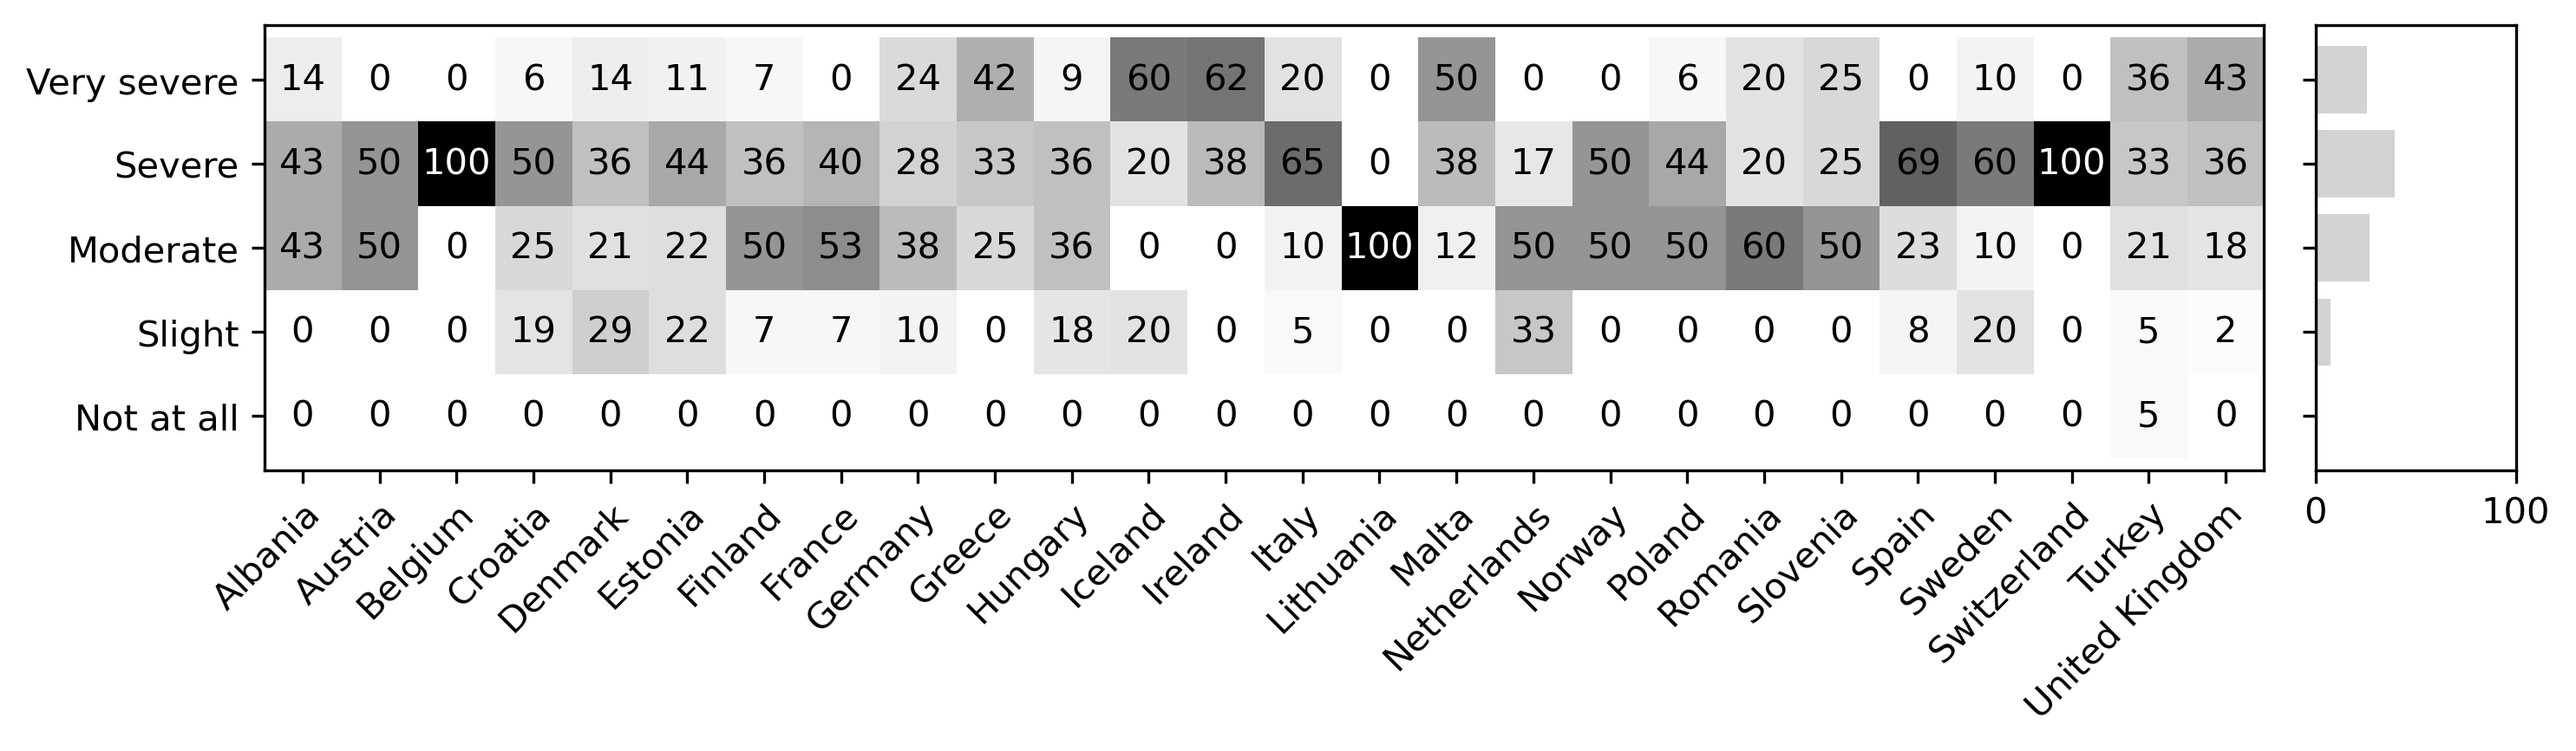
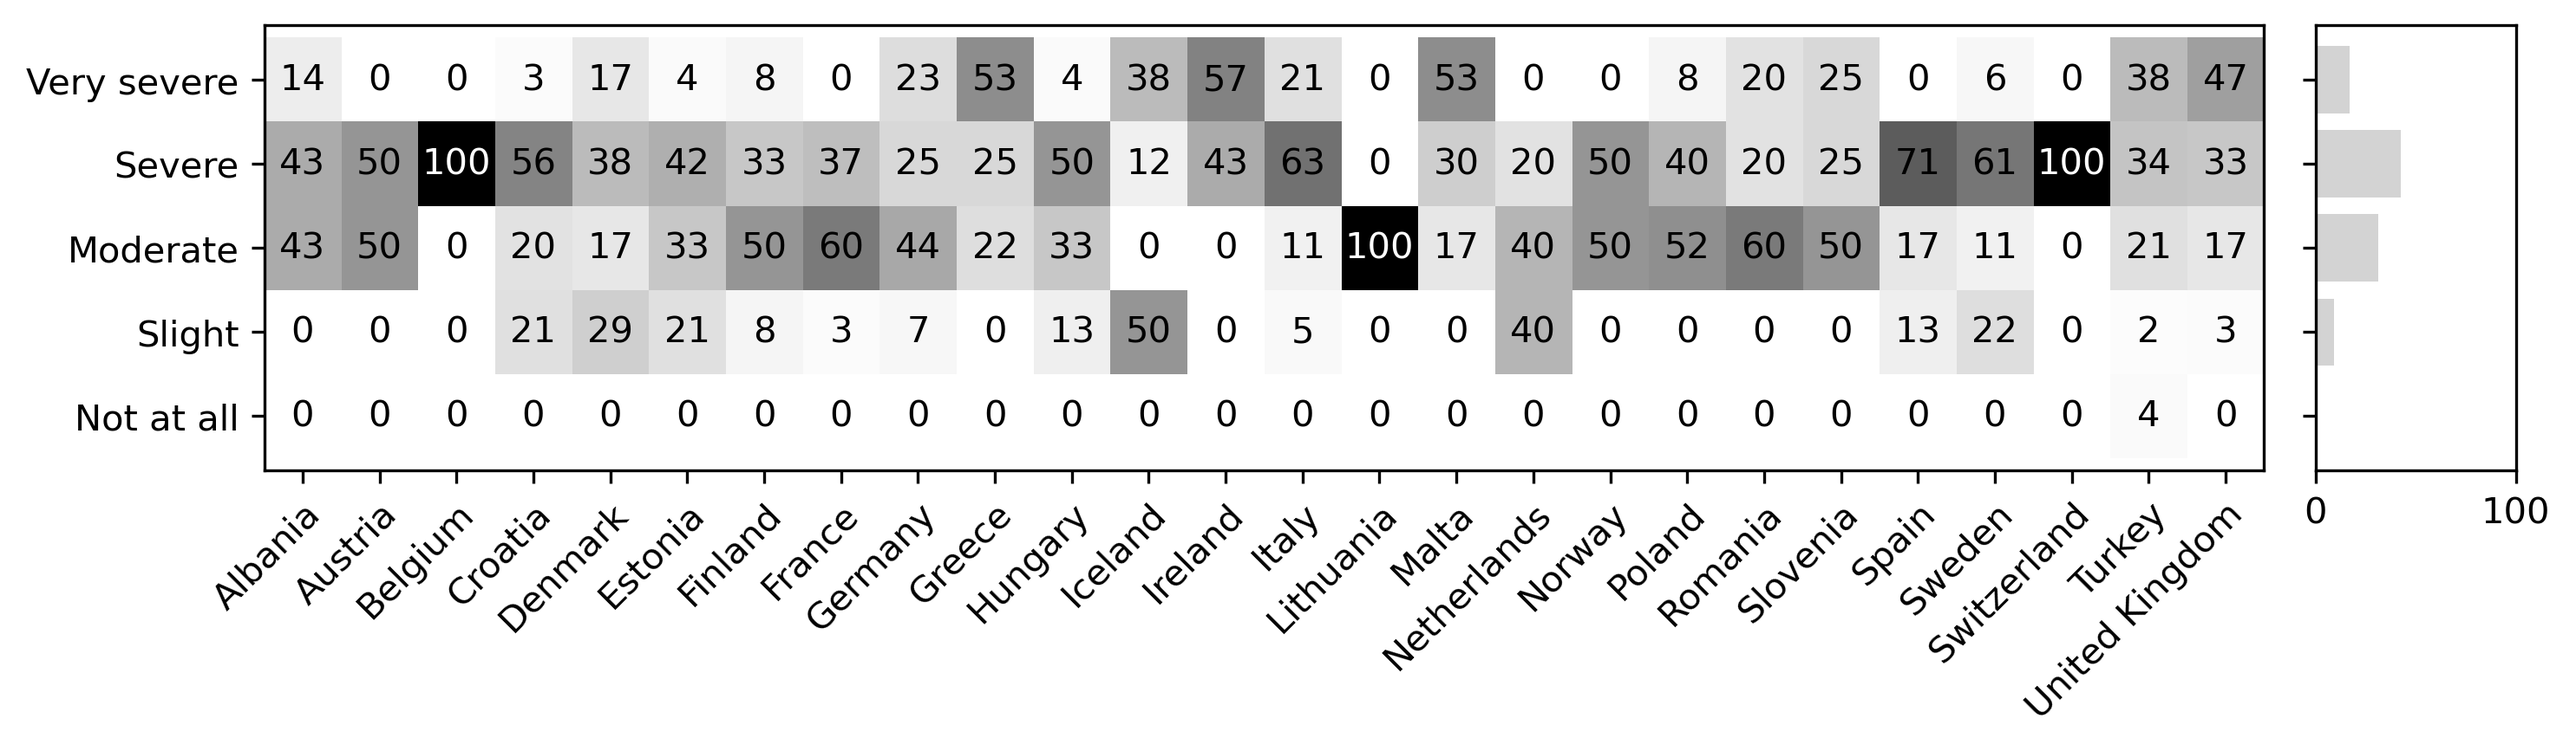
Update plot_severity.ipynb to country level

diff --git a/report/manuscript.tex b/report/manuscript.tex
@@ -108,7 +108,7 @@ and K is number of countries in Europe.
 \begin{figure}[H]
     \centering
         \includegraphics[width=1.0\textwidth]{../output/plots/severity}
-        \caption{severity}
+        \caption{Perceived severity of emergency department crowding based on country level statistics}
         \label{fig:severity}
 \end{figure}
 
